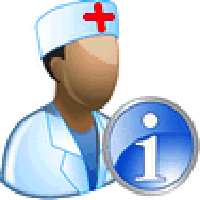
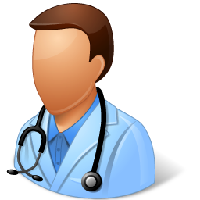
endret ikon og font

diff --git a/NorskReseptRegister/src/norskreseptregister/gui/info/InfoMainHjemGUI.java b/NorskReseptRegister/src/norskreseptregister/gui/info/InfoMainHjemGUI.java
@@ -28,22 +28,22 @@ class InfoMainHjemGUI extends JPanel
         ImageIcon pasinf = new ImageIcon("src/norskreseptregister/gui/bilder/pasinfo.png");
         ImageIcon medinf = new ImageIcon("src/norskreseptregister/gui/bilder/epille.png");
         
-        knapp1 = new JButton(pasinf);
-        knapp2 = new JButton(legeinf);
+        knapp1 = new JButton(legeinf);
+        knapp2 = new JButton(pasinf);
         knapp3 = new JButton(medinf);
         
         knapp1.setFocusPainted(false);
         
-        knapp1.setToolTipText("Info om pasient");
-        knapp2.setToolTipText("Info om lege");
+        knapp1.setToolTipText("Info om lege");
+        knapp2.setToolTipText("Info om pasient");
         knapp3.setToolTipText("Info om medisin");
         
         label1 = new JLabel("LegeInfo");
-        label1.setFont(new Font ("georgia", Font.BOLD, 20)); // Evig DØLL MÅ SKIFTES SENERE
+        label1.setFont(new Font ("PT Serif", Font.PLAIN, 20)); 
         label2 = new JLabel("PasientInfo");
-        label2.setFont(new Font ("palatino", Font.ITALIC, 20)); // Evig DØLL MÅ SKIFTES SENERE
+        label2.setFont(new Font ("PT Serif", Font.PLAIN, 20)); 
         label3 = new JLabel("MedisinInfo");
-        label3.setFont(new Font ("baskerville", Font.ROMAN_BASELINE, 20)); // Evig DØLL MÅ SKIFTES SENERE
+        label3.setFont(new Font ("PT Serif", Font.PLAIN, 20)); 
         
         GridBagConstraints gc = new GridBagConstraints();
         setLayout(new GridBagLayout());

diff --git a/NorskReseptRegister/src/norskreseptregister/gui/regGUI/RegMainHjemGUI.java b/NorskReseptRegister/src/norskreseptregister/gui/regGUI/RegMainHjemGUI.java
@@ -44,11 +44,11 @@ class RegMainHjemGUI extends JPanel implements ActionListener
         regResept.setToolTipText("Registrer resept");
         
         label1 = new JLabel("Registrer Pasient");
-        label1.setFont(new Font ("georgia", Font.BOLD, 20)); // Evig DØLL MÅ SKIFTES SENERE
+        label1.setFont(new Font ("PT Serif", Font.PLAIN, 20)); 
         label2 = new JLabel("Registrer Lege");
-        label2.setFont(new Font ("palatino", Font.ITALIC, 20)); // Evig DØLL MÅ SKIFTES SENERE
+        label2.setFont(new Font ("PT Serif", Font.PLAIN, 20)); 
         label3 = new JLabel("Registrer Resept");
-        label3.setFont(new Font ("baskerville", Font.ROMAN_BASELINE, 20)); // Evig DØLL MÅ SKIFTES SENERE
+        label3.setFont(new Font ("PT Serif", Font.PLAIN, 20)); 
                
         
         panel2 = new JPanel();

diff --git a/NorskReseptRegister/src/norskreseptregister/gui/AdminMainHjemGUI.java b/NorskReseptRegister/src/norskreseptregister/gui/AdminMainHjemGUI.java
@@ -42,7 +42,6 @@ class AdminMainHjemGUI extends JPanel implements ActionListener
         label2 = new JLabel("Registrer medisin");
         label2.setFont(new Font ("PT Serif", Font.PLAIN, 20));
         
-        
         knapp1.setFocusPainted(false);
         knapp2.setFocusPainted(false);
         
@@ -81,6 +80,5 @@ class AdminMainHjemGUI extends JPanel implements ActionListener
             
         }
     }
-    
 
 }//end of class AdminMainHjemGUI

diff --git a/NorskReseptRegister/src/norskreseptregister/hovedVindu.java b/NorskReseptRegister/src/norskreseptregister/hovedVindu.java
@@ -104,7 +104,6 @@ public class hovedVindu extends JFrame
             }
         };
         
-
         //Skriver til alle register, ikke medisin.
         addWindowListener(new WindowAdapter()
         {
